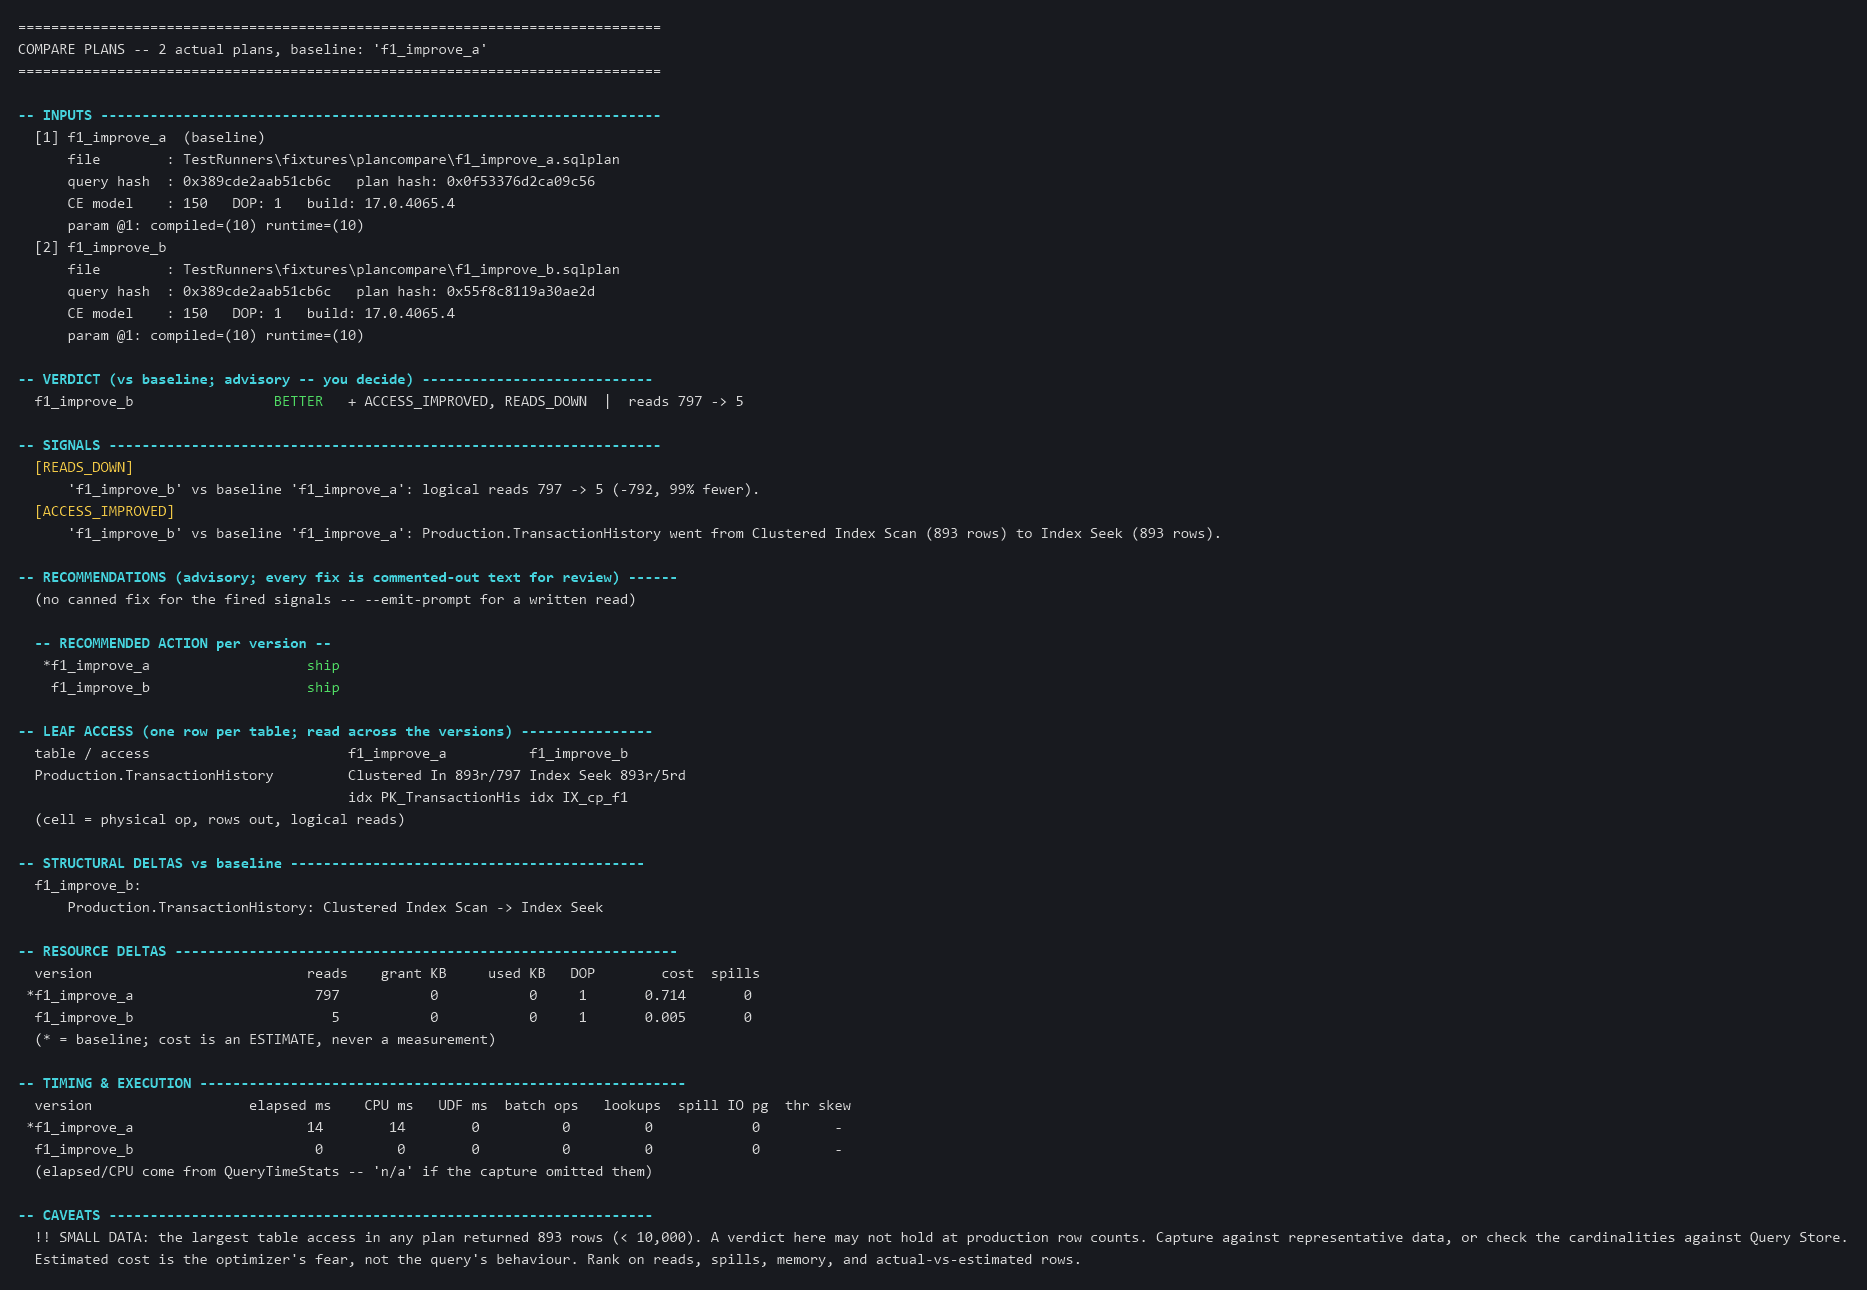
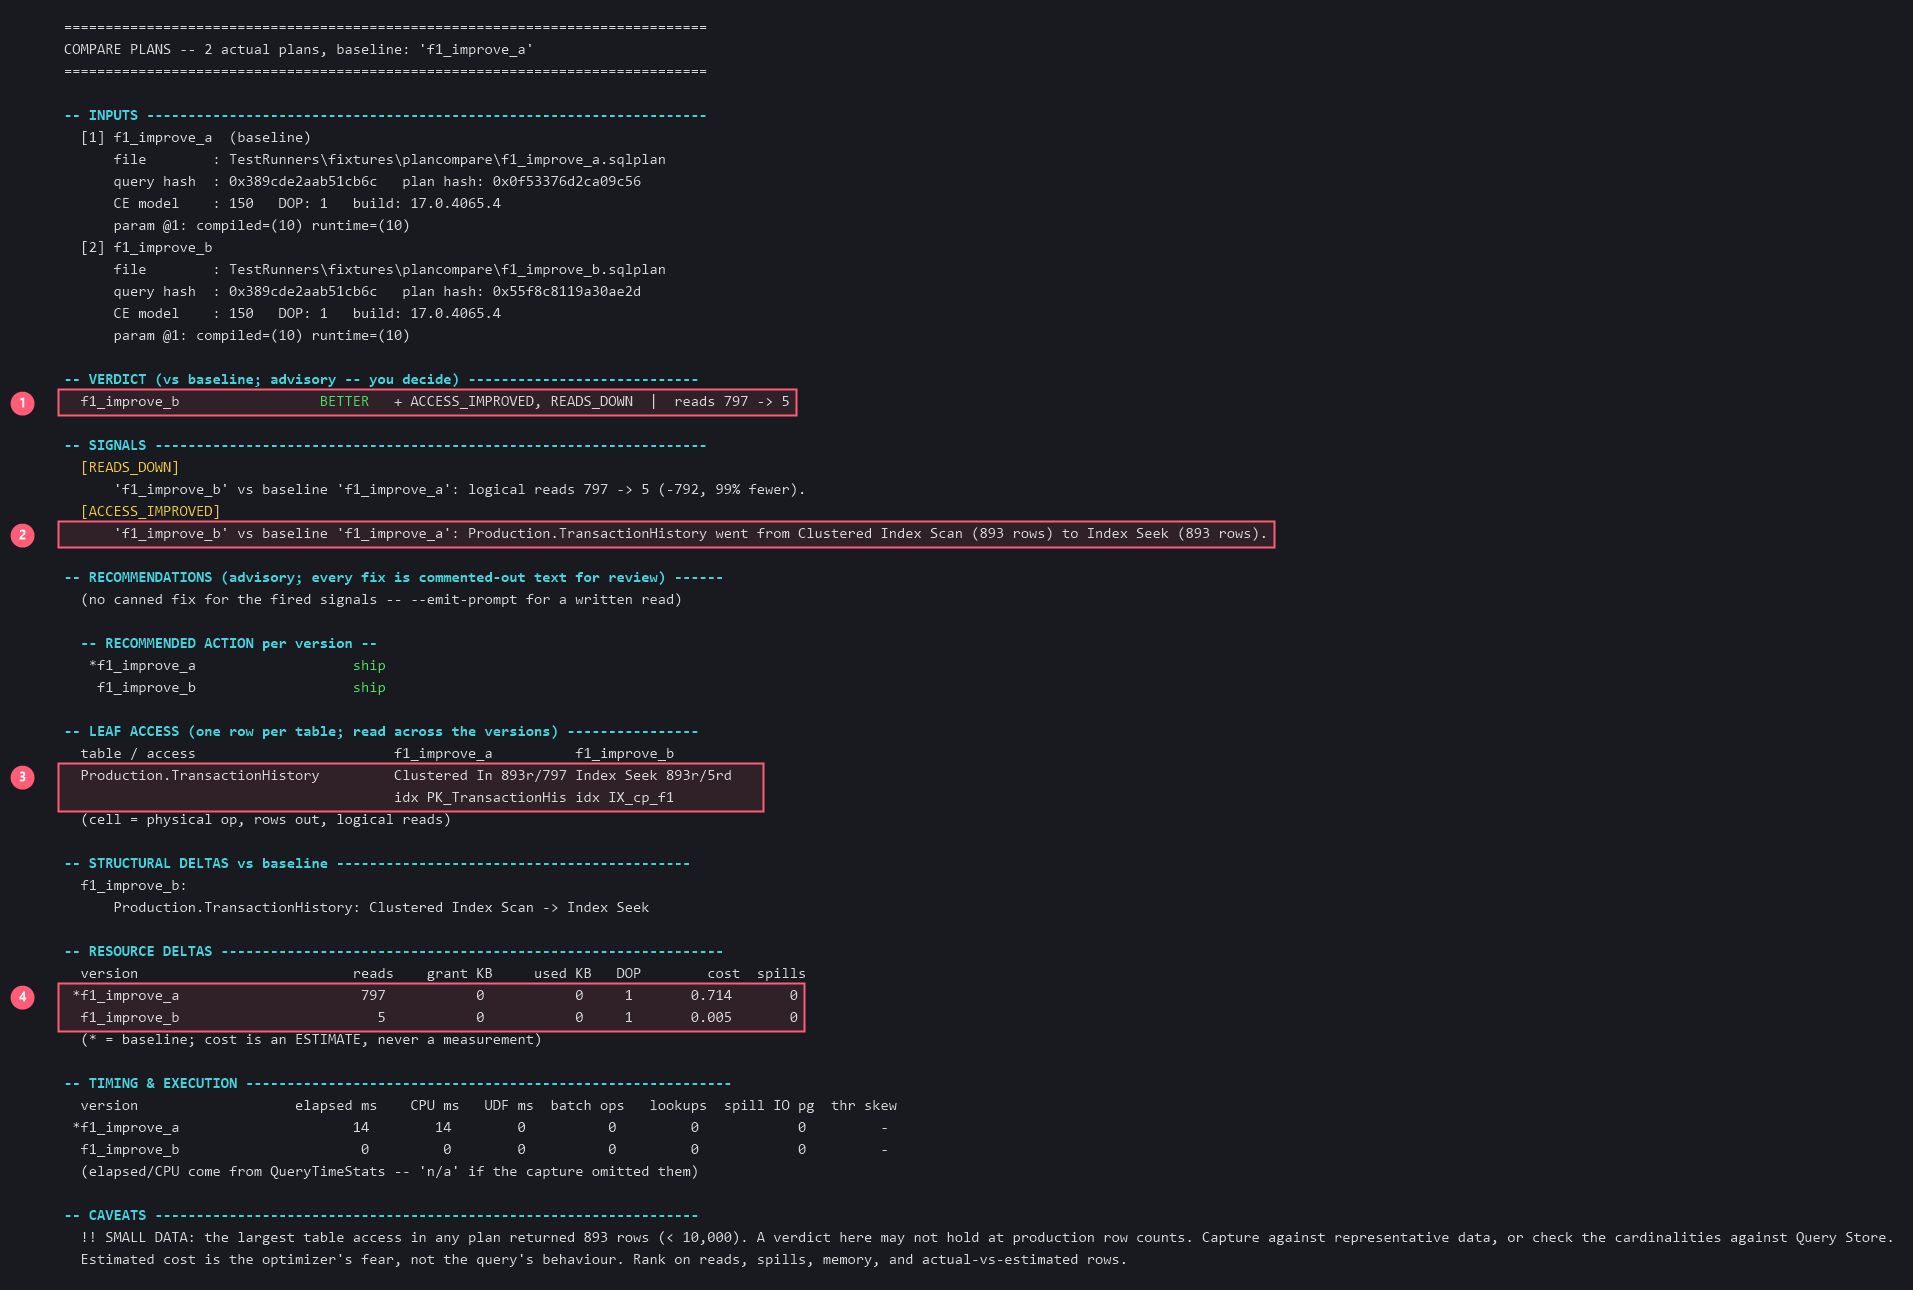
ComparePlans docs: worked examples behind each screenshot, with numbered callouts
Each image now carries the query that produced it, what was deliberately planted, and what the tool concluded -- keyed to numbered callouts drawn on the image itself. Parameter sniffing (same runtime parameter, different compiled-for value, cost inverted against reads); the eager index spool SQL Server rebuilds on every execution; and the same query text before and after an index, showing the evidence tables.

Changed region(s): [[0.0, 0.031, 0.6834, 0.4651], [0.0, 0.4961, 0.4349, 0.8062], [0.0311, 0.8372, 0.5903, 0.9922]]

diff --git a/USAGE-ComparePlans_v1.md b/USAGE-ComparePlans_v1.md
@@ -86,9 +86,39 @@ python ComparePlans_v1.py v1.sqlplan v2.sqlplan --baseline "v2"
 ### Output formats
 
 `--full` restores the evidence tables the brief report leaves out -- inputs, signals, leaf access,
-structural deltas, resource deltas and timing:
+structural deltas, resource deltas and timing. The example below is the simplest case there is:
+**the same query text captured twice**, with an index created in between.
 
-![ComparePlans --full: the evidence tables behind the verdict](images/compareplans-full.png)
+```sql
+-- both captures run exactly this
+SELECT TransactionID, Quantity, ActualCost
+FROM   Production.TransactionHistory
+WHERE  Quantity = 10;
+
+-- created between capture A and capture B
+CREATE NONCLUSTERED INDEX IX_cp_f1
+    ON Production.TransactionHistory (Quantity) INCLUDE (ActualCost);
+```
+
+Identical text means an identical query hash, so only the *plan* hash moves -- visible in the
+INPUTS block at the top.
+
+![ComparePlans --full with callouts on the verdict, the access-path signal, the leaf access table and the resource deltas](images/compareplans-full.png)
+
+**What the tool determined, and why:**
+
+1. **`BETTER`, reads 797 -> 5.** A 99% reduction, stated as a measurement rather than a percentage
+   of an estimate.
+2. **`ACCESS_IMPROVED` -- Clustered Index Scan became Index Seek**, and the signal is reads-aware:
+   a scan turning into a seek is only an improvement if the reads actually fall. A seek that then
+   performs thousands of lookups would have fired `LOOKUP_EXPLOSION` instead, as in the first
+   example above.
+3. **LEAF ACCESS, one row per table across both versions** -- physical operator, rows out, logical
+   reads, and which index was used (`PK_TransactionHis` -> `IX_cp_f1`). This is the table to read
+   when a verdict surprises you.
+4. **RESOURCE DELTAS** -- and note `cost 0.714 -> 0.005` sits in the same table as `reads 797 -> 5`
+   but is marked an ESTIMATE. Here the cost happens to agree with reality. The first example is
+   what happens when it does not.
 
 
 
@@ -119,10 +149,50 @@ per version, caveats. Under `--color` it is also the only output in this toolset
 to carry meaning: yellow signal tags, green generated DDL with **orange T-SQL keywords**, and the
 paired rollback in magenta so the undo is impossible to miss.
 
-![ComparePlans brief report: verdict, recommendations, generated covering index with its rollback](images/compareplans-verdict.png)
+### Worked example -- the same plan, good for one parameter and ruinous for another
 
-*Two plans of the same query. The cheaper-looking version does 12,571 logical reads against 797,
-and the tool says so rather than ranking on the cost percentage.*
+One procedure, run twice with the *same* runtime parameter. Only the value it was **compiled** for
+differs:
+
+```sql
+CREATE OR ALTER PROCEDURE dbo.cp_f3_sniff @pid INT AS
+SELECT TransactionID, Quantity, ActualCost
+FROM   Production.TransactionHistory
+WHERE  ProductID = @pid
+ORDER BY TransactionID;
+
+-- capture A: compiled AND run for a COMMON value
+EXEC sp_recompile 'dbo.cp_f3_sniff';
+EXEC dbo.cp_f3_sniff @pid = 870;          -- <- plan A captured here
+
+-- capture B: compiled for a RARE value, then run for the common one
+EXEC sp_recompile 'dbo.cp_f3_sniff';
+EXEC dbo.cp_f3_sniff @pid = 725;          -- rare: caches a seek + lookup plan
+EXEC dbo.cp_f3_sniff @pid = 870;          -- <- plan B captured here, reusing it
+```
+
+That is parameter sniffing in eight lines: B is the plan the optimizer built for 725, doing the
+work of 870.
+
+![ComparePlans brief report with callouts on the verdict, the cost-versus-reads inversion, the lookup count, the generated index and the recommended action](images/compareplans-verdict.png)
+
+**What the tool determined, and why:**
+
+1. **`WORSE`, reads 797 -> 12,571.** The verdict ranks on work done, not on the optimizer's
+   opinion of it.
+2. **The inversion that matters: estimated cost `0.018` against `0.714`, actual reads `12,571`
+   against `797`.** Plan B looks sixteen times *cheaper* and does sixteen times more reading. Rank
+   these two in SSMS by "query cost relative to the batch" and you pick the bad one -- which is
+   why the report says, in as many words, not to.
+3. **`4,187` key/RID-lookup executions against a baseline of 0** -- the mechanism. The seek is
+   genuinely selective for `ProductID = 725`; reused for 870 it finds thousands of rows and looks
+   each one up individually.
+4. **The fix, synthesised from the plan itself** -- keys from the seek, `INCLUDE` from the lookup's
+   own output -- with its `-- ROLLBACK:` on the next line. Both are commented out; nothing here
+   runs DDL.
+5. **`hold -- add a covering index`.** Note it does not say "use `OPTION (RECOMPILE)`": covering
+   the query removes the *lookup*, which is what made the two parameter values want different
+   plans in the first place, so both converge on the same good plan.
 
 The default report is **brief** -- four sections. `--full` adds the rest.
 
@@ -207,11 +277,36 @@ prints which one and why.
 
 ## Check a single plan (`--single`)
 
-![ComparePlans --single: anti-patterns found in one plan, with the index the eager spool stands in for](images/compareplans-single.png)
+### Worked example -- the index SQL Server builds for you, every time it runs
 
-*One plan, no baseline, so no verdict and no ranking -- just the deterministic anti-pattern
-checklist, the DDL the spool is standing in for, and the note that an "Excessive Grant" warning on
-a 1 MB grant is SQL Server's minimum rather than something to tune.*
+A correlated subquery against a column with no index on it:
+
+```sql
+SELECT TOP (5000) th1.TransactionID,
+       (SELECT TOP (1) th2.ActualCost
+        FROM   Production.TransactionHistory th2
+        WHERE  th2.Quantity = th1.Quantity      -- no index on Quantity
+        ORDER BY th2.ActualCost DESC) AS TopCost
+FROM   Production.TransactionHistory th1;
+```
+
+![ComparePlans --single with callouts on the read count, the eager index spool, the permanent index it stands in for, and the minimum-grant note](images/compareplans-single.png)
+
+**What the tool determined, and why:**
+
+1. **274,531 logical reads to return 5,000 rows**, in 499 ms. That ratio is the tell before any
+   analysis.
+2. **`EAGER_INDEX_SPOOL` -- SQL Server builds a temporary index over 113,463 rows at run time**,
+   because no permanent index covers the `Quantity` lookup. It then throws it away and builds it
+   again on the next execution. The build *is* the query's cost.
+3. **The permanent index that spool stands in for**, with keys and `INCLUDE` taken from the
+   spool's own definition rather than guessed, plus the rollback.
+4. **A warning it tells you to ignore.** SQL Server reports `Excessive Grant: requested 1 MB,
+   granted 1 MB, used 0 MB`, which reads like an over-estimate to chase. It is not: 1,024 KB is
+   the server's *minimum* grant (`min memory per query`), so the engine could not have granted
+   less. Flagging that is the difference between a checklist and a tool worth trusting.
+
+There is no verdict or ranking here -- one plan has no baseline to be better or worse than.
 
 You do not always have two plans to compare. `--single <plan>` runs just the
 deterministic anti-pattern checks on **one** plan and stops:
